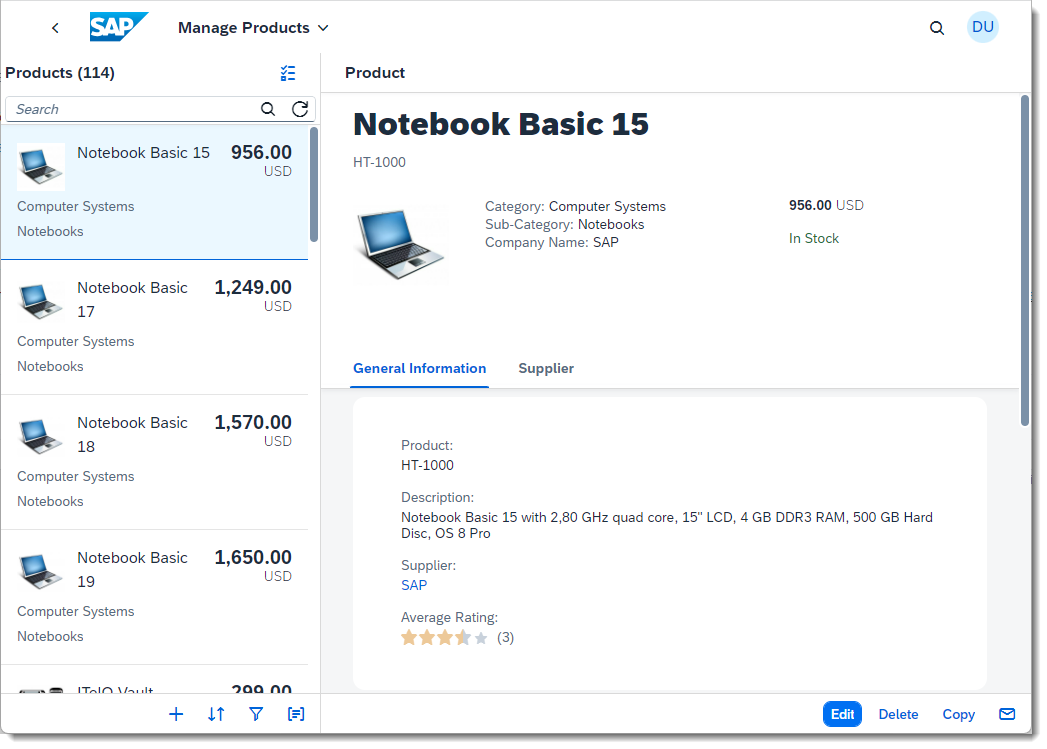
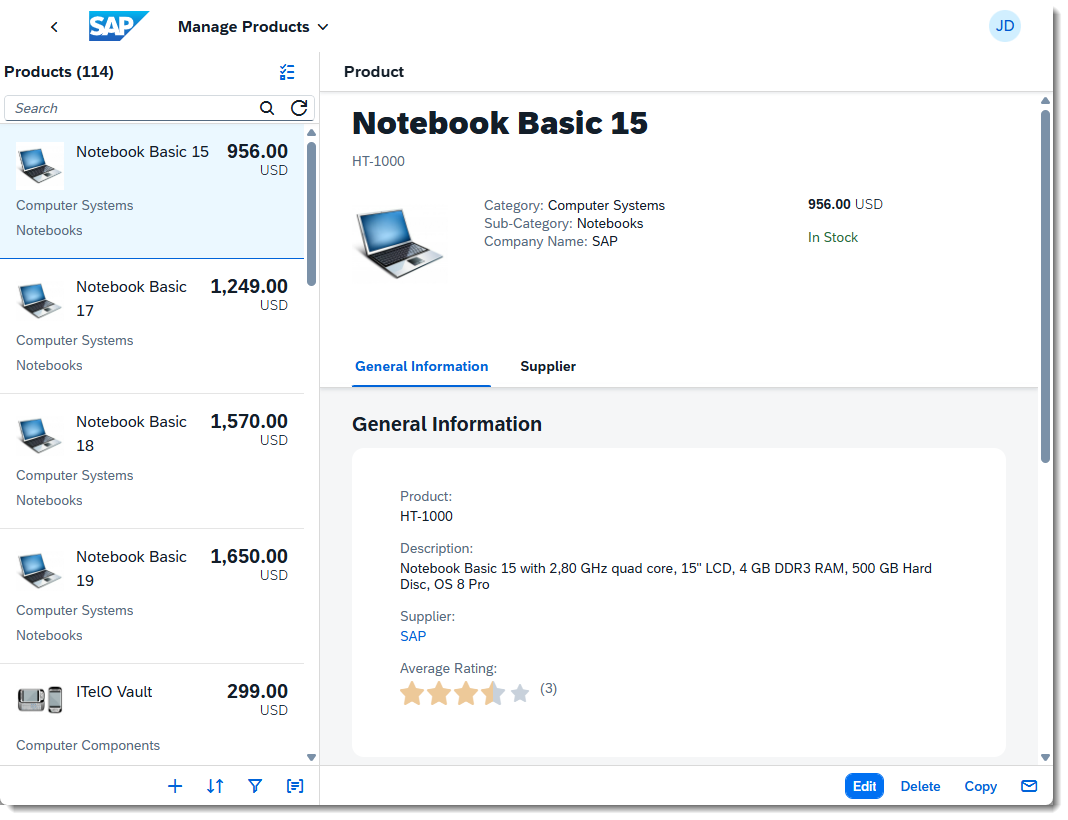
Update Flexibility Tutorials to use JD instead of DU

diff --git a/tutorials/sapui5-flexibility-keyuseradaptation-2-deepdive/sapui5-flexibility-keyuseradaptation-2-deepdive.md b/tutorials/sapui5-flexibility-keyuseradaptation-2-deepdive/sapui5-flexibility-keyuseradaptation-2-deepdive.md
@@ -29,7 +29,7 @@ In the next steps you will learn how to create other UI changes and see more fea
 
 1. Go again to the [SAPUI5 Demo Kit](https://ui5.sap.com/#/demoapps), and open the **Key User Adaptation** demo app under *SAPUI5 Flexibility Demo Apps*.
 
-2. Start key user adaptation by clicking on the upper right **DU** icon and selecting **Adapt UI**. Make sure to select *Original App* on the Version drop down (left side of the toolbar). This will load the app without any previous UI changes so you can start a new draft. The draft is only visible to key users and only while in adaptation mode - end users will not see any UI changes until the draft is activated as a version.
+2. Start key user adaptation by clicking on the upper right **JD** icon and selecting **Adapt UI**. Make sure to select *Original App* on the Version drop down (left side of the toolbar). This will load the app without any previous UI changes so you can start a new draft. The draft is only visible to key users and only while in adaptation mode - end users will not see any UI changes until the draft is activated as a version.
 
 3. Go to the **General Information** section and right-click on the first field, **Product**. Then select **Add: Field**.
 

diff --git a/tutorials/sapui5-flexibility-keyuseradaptation-3-advanced-topics/sapui5-flexibility-keyuseradaptation-3-advanced-topics.md b/tutorials/sapui5-flexibility-keyuseradaptation-3-advanced-topics/sapui5-flexibility-keyuseradaptation-3-advanced-topics.md
@@ -25,7 +25,7 @@ So far you have learned how easy it is to adapt applications using intuitive "wh
 
 1. Go again to the [SAPUI5 Demo Kit](https://ui5.sap.com/#/demoapps), and this time open the **Key User Adaptation for SAP Fiori Elements** demo app under *SAPUI5 Flexibility Demo Apps*.
 
-2. Start key user adaptation by clicking on the upper right **DU** icon and selecting **Adapt UI**. Make sure to select *Original App* on the Version drop down (left side of the toolbar). This will load the app without any previous UI changes so you can start a new draft.
+2. Start key user adaptation by clicking on the upper right **JD** icon and selecting **Adapt UI**. Make sure to select *Original App* on the Version drop down (left side of the toolbar). This will load the app without any previous UI changes so you can start a new draft.
    
     ![Start Key User Adaptation](step1-startkeyuseradaptation.png)
 

diff --git a/tutorials/sapui5-flexibility-keyuseradaptation-1-introduction/sapui5-flexibility-keyuseradaptation-1-introduction.md b/tutorials/sapui5-flexibility-keyuseradaptation-1-introduction/sapui5-flexibility-keyuseradaptation-1-introduction.md
@@ -25,7 +25,7 @@ Different users work with SAPUI5 applications differently - e.g. depending on wh
 
 1. Go to the [SAPUI5 Demo Kit](https://ui5.sap.com/#/demoapps), and open the **Key User Adaptation** demo app under *SAPUI5 Flexibility Demo Apps*.
 
-2. Go to the user actions menu of the app (in this demo app you are the *Default User*).
+2. Go to the user actions menu of the app (in this demo app you are *John Doe*).
 
     ![User actions menu](step1-useractionsmenu.png)
 
